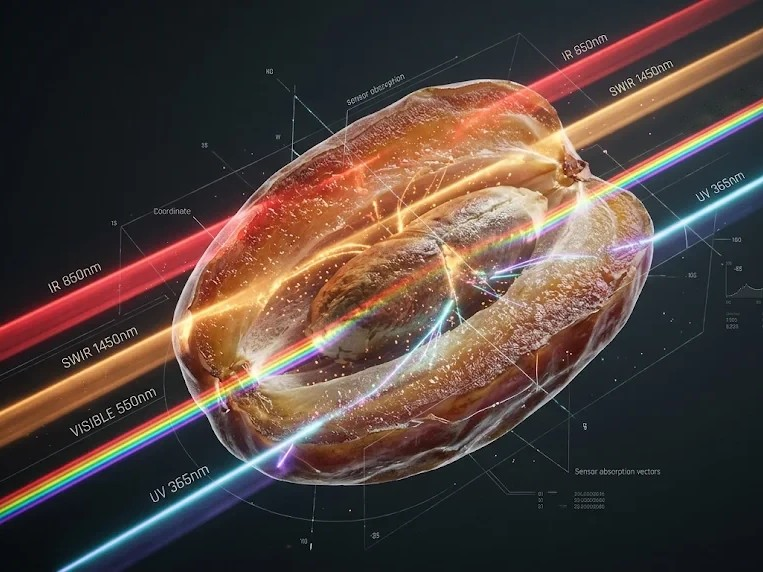
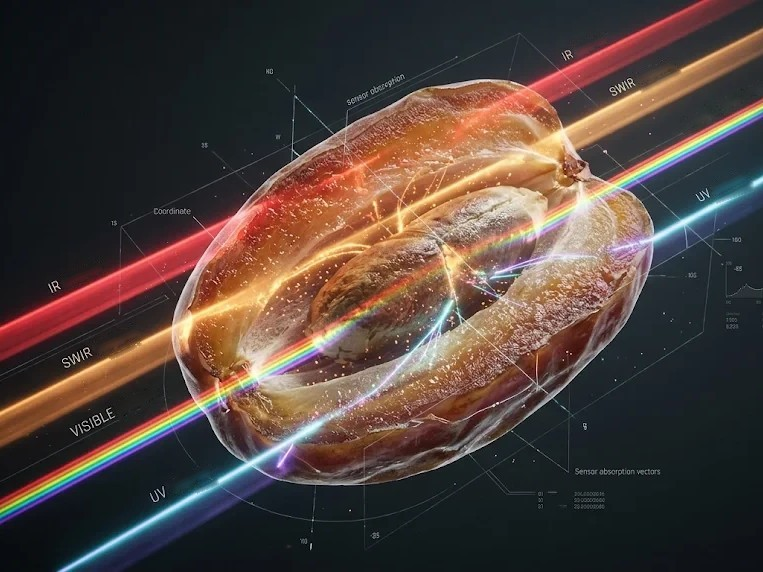
Textes génériques pour le robot-verseur et l'aligneur, image spectrale sans longueurs d'onde
- « Robot et verseur » : chargement automatique et remplissage constant, sans modèle de robot ni nombre de caisses.
- « Aligneur » : objectif de répartition homogène et de séparation des doublons, sans nombre d'étages.
- Image t-spectre.jpg : valeurs en nm effacées, noms des bandes (IR, SWIR, VISIBLE, UV) conservés ; ?v=2.

diff --git a/ar/index.html b/ar/index.html
@@ -433,7 +433,7 @@ html[dir=rtl] .champs input[type=email],html[dir=rtl] .champs input[type=tel]{di
     <div class="technos">
       <div class="techno apparait"><img src="../media/cgi/t-ia-tomate.jpg" alt="حبة طماطم تحلّلها شبكة عصبية، مع رصد عيب" loading="lazy"><div class="corps"><h3>الذكاء الاصطناعي</h3><p>ذكاء اصطناعي مُدرَّب على فواكهكم، يحكم على كل ثمرة بالثبات نفسه.</p></div></div>
       <div class="techno apparait"><img src="../media/cgi/t-eclairage.jpg" alt="لوحة إضاءة LED بعدساتها، فوق مشتّتها الحراري" loading="lazy"><div class="corps"><h3>إضاءة مخصّصة</h3><p>ضوء مختار ليكشف ما يهمّ في كل منتج.</p></div></div>
-      <div class="techno apparait"><img src="../media/cgi/t-spectre.jpg" alt="تمرة تحلّلها حزم طيفية، من الأشعة فوق البنفسجية إلى الأشعة تحت الحمراء" loading="lazy"><div class="corps"><h3>مستشعرات طيفية</h3><p>قياس يتجاوز ما هو مرئي.</p></div></div>
+      <div class="techno apparait"><img src="../media/cgi/t-spectre.jpg?v=2" alt="تمرة تحلّلها حزم طيفية، من الأشعة فوق البنفسجية إلى الأشعة تحت الحمراء" loading="lazy"><div class="corps"><h3>مستشعرات طيفية</h3><p>قياس يتجاوز ما هو مرئي.</p></div></div>
     </div>
 
     <div class="carrousel" id="carrousel" aria-roledescription="عرض دوّار">
@@ -500,9 +500,9 @@ html[dir=rtl] .champs input[type=email],html[dir=rtl] .champs input[type=tel]{di
     <div class="etiquette3d" id="etiquette3d"><i></i><span></span></div>
     <div class="cartes3d">
         <article class="etape3d active" data-court=""><span class="n3d">الآلة</span><h3>Freescan للطماطم الكرزية، جزءًا جزءًا</h3><p>مرّروا الصفحة: تابعوا الطماطم من الصندوق إلى الحاوية، جزءًا بعد جزء.</p></article>
-        <article class="etape3d" data-court="الروبوت ومُفرِغ الصناديق"><span class="n3d">01 · التحميل</span><h3>الروبوت ومُفرِغ الصناديق</h3><p>يلتقط روبوت رباعي المحاور الصناديق الممتلئة من المنصّة ويضعها طوليًا على ناقل يرفعها إلى المُفرِغ. وما إن يستقرّ صندوقان في مكانهما حتى تدور الأسطوانة وتُفرغ الطماطم بلطف على الحزام.</p></article>
+        <article class="etape3d" data-court="الروبوت ومُفرِغ الصناديق"><span class="n3d">01 · التحميل</span><h3>الروبوت ومُفرِغ الصناديق</h3><p>التحميل مؤتمت من البداية إلى النهاية: يتولّى روبوت نقل الصناديق الممتلئة ويغذّي مُفرِغ الصناديق دون انقطاع. تُفرَّغ الفواكه بلطف وبإيقاع منتظم، فيتغذّى الخط بشكل متواصل. مناولة أقل لفرقكم، وصدمات أقل للفواكه.</p></article>
         <article class="etape3d" data-court="الرافعة"><span class="n3d">02 · الرفع</span><h3>الرافعة ذات الحواجز</h3><p>يرفع حزام مائل ذو حواجز الفواكه السائبة بلطف حتى مدخل الآلة.</p></article>
-        <article class="etape3d" data-court="المُصفِّف"><span class="n3d">03 · التصفيف</span><h3>المُصفِّف</h3><p>أحزمة متتالية، كلٌّ منها أسرع من سابقه، تُباعد بين حبات الطماطم وتفصل المتلاصقة منها. ثم توزّعها فواصل من الفولاذ المقاوم للصدأ على خطوط الآلة.</p></article>
+        <article class="etape3d" data-court="المُصفِّف"><span class="n3d">03 · التصفيف</span><h3>المُصفِّف</h3><p>قبل التحليل، ينشر المُصفِّف الفواكه السائبة ويُباعد بينها ويفصل الثمار المتلاصقة. الهدف توزيع متجانس قدر الإمكان على جميع الخطوط، حتى تصل كل ثمرة وحدها إلى حاملها. وهذا ما يضمن قياسًا موثوقًا وفرزًا دقيقًا، حتى بأقصى سرعة.</p></article>
         <article class="etape3d" data-court="سلسلة البكرات"><span class="n3d">04 · النقل</span><h3>سلاسل البكرات</h3><p>كل خط سلسلة مزوّدة ببكرات مزدوجة المخروط: طماطمة واحدة بين محورين، تُتابَع حتى مخرجها. وتُديرها البكرات لتُظهر جميع جوانبها.</p></article>
         <article class="etape3d" data-court="الخزانة الكهربائية"><span class="n3d">05 · التحكم</span><h3>الخزانة الكهربائية</h3><p>عند مدخل خلية الرؤية، تحمل الخزانة الشاشة اللمسية: الخط بأكمله في الوقت الحقيقي، ووصفة لكل صنف.</p></article>
         <article class="etape3d" data-court="نفق الرؤية"><span class="n3d">06 · الرؤية</span><h3>نفق الرؤية</h3><p>كاميرات وإضاءة مُتحكَّم فيها: تُرى كل طماطمة من كل الزوايا، ويحكم الذكاء الاصطناعي على الحجم واللون والعيوب.</p></article>

diff --git a/index.html b/index.html
@@ -408,7 +408,7 @@ html:has(.demande[open]){overflow:hidden}
     <div class="technos">
       <div class="techno apparait"><img src="media/cgi/t-ia-tomate.jpg" alt="Tomate analysée par un réseau de neurones, défaut détecté" loading="lazy"><div class="corps"><h3>Intelligence artificielle</h3><p>Une IA entraînée sur vos fruits, qui juge chacun avec la même constance.</p></div></div>
       <div class="techno apparait"><img src="media/cgi/t-eclairage.jpg" alt="Carte d'éclairage LED avec ses optiques, sur son radiateur" loading="lazy"><div class="corps"><h3>Éclairage dédié</h3><p>Une lumière choisie pour révéler ce qui compte sur chaque produit.</p></div></div>
-      <div class="techno apparait"><img src="media/cgi/t-spectre.jpg" alt="Datte analysée par des faisceaux spectraux, de l'ultraviolet à l'infrarouge" loading="lazy"><div class="corps"><h3>Capteurs spectraux</h3><p>Une mesure qui va au-delà du visible.</p></div></div>
+      <div class="techno apparait"><img src="media/cgi/t-spectre.jpg?v=2" alt="Datte analysée par des faisceaux spectraux, de l'ultraviolet à l'infrarouge" loading="lazy"><div class="corps"><h3>Capteurs spectraux</h3><p>Une mesure qui va au-delà du visible.</p></div></div>
     </div>
 
     <div class="carrousel" id="carrousel" aria-roledescription="carrousel">
@@ -475,9 +475,9 @@ html:has(.demande[open]){overflow:hidden}
     <div class="etiquette3d" id="etiquette3d"><i></i><span></span></div>
     <div class="cartes3d">
         <article class="etape3d active" data-court=""><span class="n3d">La machine</span><h3>Freescan tomate cerise, pièce par pièce</h3><p>Faites défiler : suivez les tomates de la caisse jusqu'au bac, organe par organe.</p></article>
-        <article class="etape3d" data-court="Robot et verseur"><span class="n3d">01 · Chargement</span><h3>Robot et verseur</h3><p>Un robot 4 axes prend les caisses pleines sur la palette et les pose dans le sens de la longueur sur un convoyeur qui les monte au verseur. Dès que deux caisses sont en place, le tambour pivote et vide les tomates en douceur sur le tapis.</p></article>
+        <article class="etape3d" data-court="Robot et verseur"><span class="n3d">01 · Chargement</span><h3>Robot et verseur</h3><p>Le chargement est automatisé de bout en bout : un robot prend en charge les caisses pleines et alimente le verseur sans interruption. Les fruits sont déversés en douceur et à cadence régulière, pour un remplissage constant de la ligne. Moins de manutention pour vos équipes, moins de chocs pour les fruits.</p></article>
         <article class="etape3d" data-court="Élévateur"><span class="n3d">02 · Élévation</span><h3>Élévateur à tasseaux</h3><p>Un tapis incliné à tasseaux monte le vrac en douceur jusqu'à l'entrée de la machine.</p></article>
-        <article class="etape3d" data-court="Aligneur"><span class="n3d">03 · Alignement</span><h3>Aligneur</h3><p>Des tapis en cascade, chacun plus rapide que le précédent : les tomates s'écartent et les doublons se défont. Des diviseurs inox les répartissent ensuite sur les lignes de la machine.</p></article>
+        <article class="etape3d" data-court="Aligneur"><span class="n3d">03 · Alignement</span><h3>Aligneur</h3><p>Avant l'analyse, l'aligneur étale le vrac, écarte les fruits les uns des autres et défait les doublons. Objectif : une répartition la plus homogène possible sur toutes les lignes, pour que chaque fruit arrive seul dans son godet. C'est la condition d'une mesure fiable et d'un tri précis, même à pleine cadence.</p></article>
         <article class="etape3d" data-court="Chaîne de godets"><span class="n3d">04 · Convoyage</span><h3>Chaînes de godets</h3><p>Chaque ligne est une chaîne équipée de diabolos : une tomate entre deux axes, suivie jusqu'à sa sortie. Les diabolos la font tourner pour montrer toutes ses faces.</p></article>
         <article class="etape3d" data-court="Coffret électrique"><span class="n3d">05 · Pilotage</span><h3>Coffret électrique</h3><p>À l'entrée de la cellule de vision, le coffret porte l'écran tactile : toute la ligne en temps réel, et une recette par variété.</p></article>
         <article class="etape3d" data-court="Tunnel de vision"><span class="n3d">06 · Vision</span><h3>Tunnel de vision</h3><p>Caméras et éclairage piloté : chaque tomate est vue sous tous les angles, et l'IA juge calibre, couleur et défauts.</p></article>

diff --git a/en/index.html b/en/index.html
@@ -408,7 +408,7 @@ html:has(.demande[open]){overflow:hidden}
     <div class="technos">
       <div class="techno apparait"><img src="../media/cgi/t-ia-tomate.jpg" alt="Tomato analysed by a neural network, defect detected" loading="lazy"><div class="corps"><h3>Artificial intelligence</h3><p>AI trained on your fruit, judging each one with the same consistency.</p></div></div>
       <div class="techno apparait"><img src="../media/cgi/t-eclairage.jpg" alt="LED lighting board with its optics, on its heat sink" loading="lazy"><div class="corps"><h3>Dedicated lighting</h3><p>Light chosen to reveal what matters on each product.</p></div></div>
-      <div class="techno apparait"><img src="../media/cgi/t-spectre.jpg" alt="Date analysed by spectral beams, from ultraviolet to infrared" loading="lazy"><div class="corps"><h3>Spectral sensors</h3><p>A measurement that goes beyond the visible.</p></div></div>
+      <div class="techno apparait"><img src="../media/cgi/t-spectre.jpg?v=2" alt="Date analysed by spectral beams, from ultraviolet to infrared" loading="lazy"><div class="corps"><h3>Spectral sensors</h3><p>A measurement that goes beyond the visible.</p></div></div>
     </div>
 
     <div class="carrousel" id="carrousel" aria-roledescription="carousel">
@@ -475,9 +475,9 @@ html:has(.demande[open]){overflow:hidden}
     <div class="etiquette3d" id="etiquette3d"><i></i><span></span></div>
     <div class="cartes3d">
         <article class="etape3d active" data-court=""><span class="n3d">The machine</span><h3>Freescan for cherry tomatoes, part by part</h3><p>Scroll down: follow the tomatoes from crate to bin, one unit at a time.</p></article>
-        <article class="etape3d" data-court="Robot and crate tipper"><span class="n3d">01 · Loading</span><h3>Robot and crate tipper</h3><p>A 4-axis robot picks the full crates from the pallet and sets them lengthwise on a conveyor that carries them up to the tipper. As soon as two crates are in place, the drum turns and gently empties the tomatoes onto the belt.</p></article>
+        <article class="etape3d" data-court="Robot and crate tipper"><span class="n3d">01 · Loading</span><h3>Robot and crate tipper</h3><p>Loading is automated from start to finish: a robot handles the full crates and feeds the crate tipper without interruption. The fruit is emptied gently and at a steady pace, keeping the line constantly supplied. Less handling for your teams, fewer knocks for the fruit.</p></article>
         <article class="etape3d" data-court="Elevator"><span class="n3d">02 · Elevation</span><h3>Cleated elevator</h3><p>An inclined cleated belt gently lifts the bulk fruit to the machine infeed.</p></article>
-        <article class="etape3d" data-court="Aligner"><span class="n3d">03 · Alignment</span><h3>Aligner</h3><p>Cascading belts, each faster than the one before, spread the tomatoes apart and break up doubles. Stainless-steel dividers then guide them into the machine lanes.</p></article>
+        <article class="etape3d" data-court="Aligner"><span class="n3d">03 · Alignment</span><h3>Aligner</h3><p>Before analysis, the aligner spreads out the bulk fruit, separates each piece from the next and breaks up doubles. The goal: the most even distribution possible across all lanes, so that every fruit reaches its cup on its own. That is what makes measurement reliable and grading accurate, even at full speed.</p></article>
         <article class="etape3d" data-court="Roller chain"><span class="n3d">04 · Conveying</span><h3>Roller chains</h3><p>Each lane is a chain fitted with spool rollers: one tomato between two axles, tracked to its exit. The rollers turn it to show every side.</p></article>
         <article class="etape3d" data-court="Electrical cabinet"><span class="n3d">05 · Control</span><h3>Electrical cabinet</h3><p>At the entrance to the vision cell, the cabinet carries the touchscreen: the whole line in real time, and one recipe per variety.</p></article>
         <article class="etape3d" data-court="Vision tunnel"><span class="n3d">06 · Vision</span><h3>Vision tunnel</h3><p>Cameras and controlled lighting: every tomato is seen from every angle, and the AI judges size, colour and defects.</p></article>
